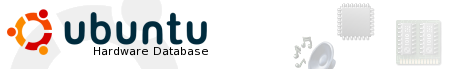
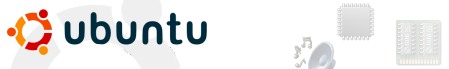
Replace static 'hardware database' string in graphic header with dynamically rendered, localizable version. Uses Cairo 'toy' text API.

Changed region(s): [[0.1871, 0.6667, 0.4677, 0.8116], [0.2183, 0.6377, 0.2494, 0.6667]]

diff --git a/checkbox_gtk/gtk_interface.py b/checkbox_gtk/gtk_interface.py
@@ -23,6 +23,7 @@ from gettext import gettext as _
 from string import Template
 
 from gi.repository import Gtk, Gdk
+import cairo
 
 from checkbox.job import UNINITIATED
 from checkbox.user_interface import (UserInterface,
@@ -31,7 +32,6 @@ from checkbox.user_interface import (UserInterface,
 
 # Import to register HyperTextView type with gtk
 from checkbox_gtk.hyper_text_view import HyperTextView
-
 
 ANSWER_TO_BUTTON = {
     YES_ANSWER: "radio_button_yes",
@@ -84,6 +84,13 @@ class GTKInterface(UserInterface):
         # Set dialog title
         self._dialog = self._get_widget("dialog_main")
         self._dialog.set_title(title)
+
+        #Render pixmap and translatable description text
+        self.image_head_png = posixpath.join(data_path,
+            "checkbox-gtk-head.png")
+
+        image_head=self._get_widget("image_head")
+        image_head.connect("expose-event",self.draw_image_head)
 
         # Set wait transient for dialog
         self._wait = self._get_widget("window_wait")
@@ -501,7 +508,7 @@ class GTKInterface(UserInterface):
         message_dialog.set_title(_("Info"))
 
         for index, option in enumerate(options):
-            button = getattr(gtk, "STOCK_%s" % option.upper())
+            button = getattr(Gtk, "STOCK_%s" % option.upper())
             message_dialog.add_buttons(button, index)
 
         self._run_dialog(message_dialog)
@@ -522,3 +529,18 @@ class GTKInterface(UserInterface):
         message_dialog.add_buttons(Gtk.STOCK_CLOSE, NEXT)
         self._run_dialog(message_dialog)
         message_dialog.hide()
+
+    def draw_image_head(self, widget, data):
+        text=_('hardware database are belong to us FAIL FTW KTHXBYE')
+        img = cairo.ImageSurface.create_from_png(self.image_head_png)
+        ctk = Gdk.cairo_create(widget.get_window())
+        ctk.set_source_surface(img,0,0)
+        ctk.paint()
+        ctk.select_font_face('Ubuntu', 
+                cairo.FONT_SLANT_NORMAL, 
+                cairo.FONT_WEIGHT_NORMAL)
+        ctk.set_font_size(11)
+        ctk.move_to(100,54)
+        ctk.set_source_rgb(0,0,0)
+        ctk.show_text(text)
+        ctk.stroke()
